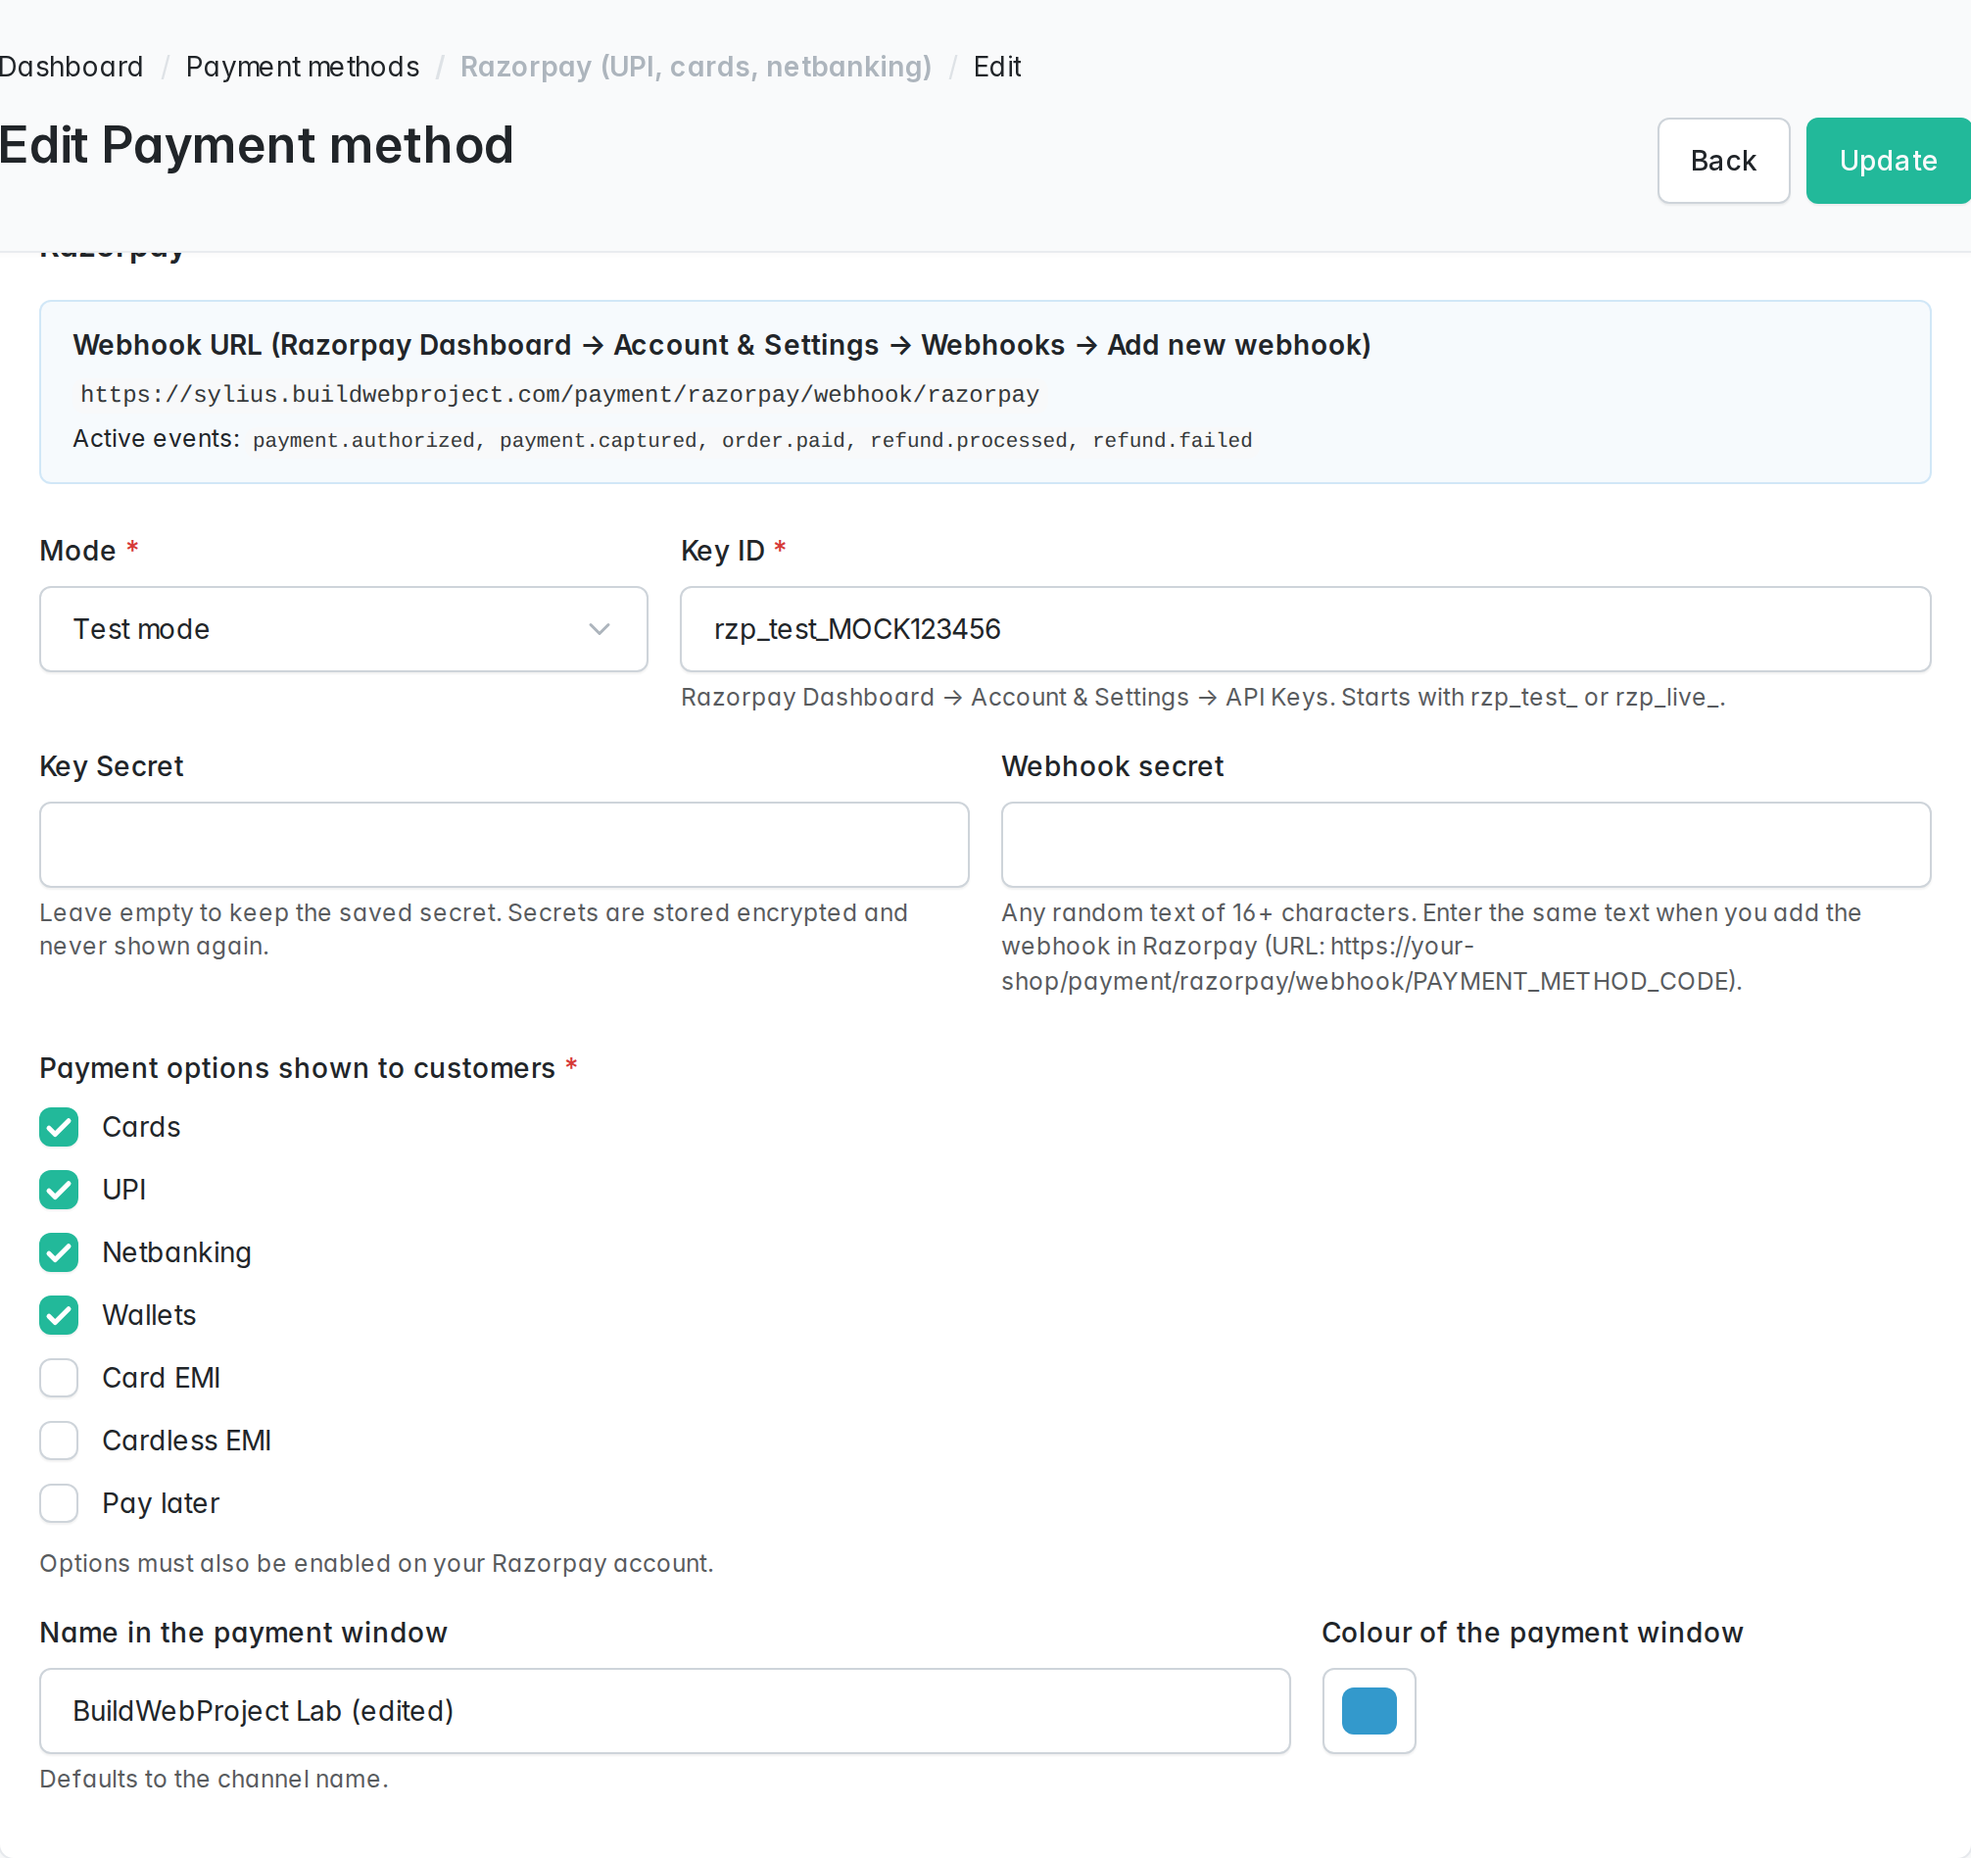
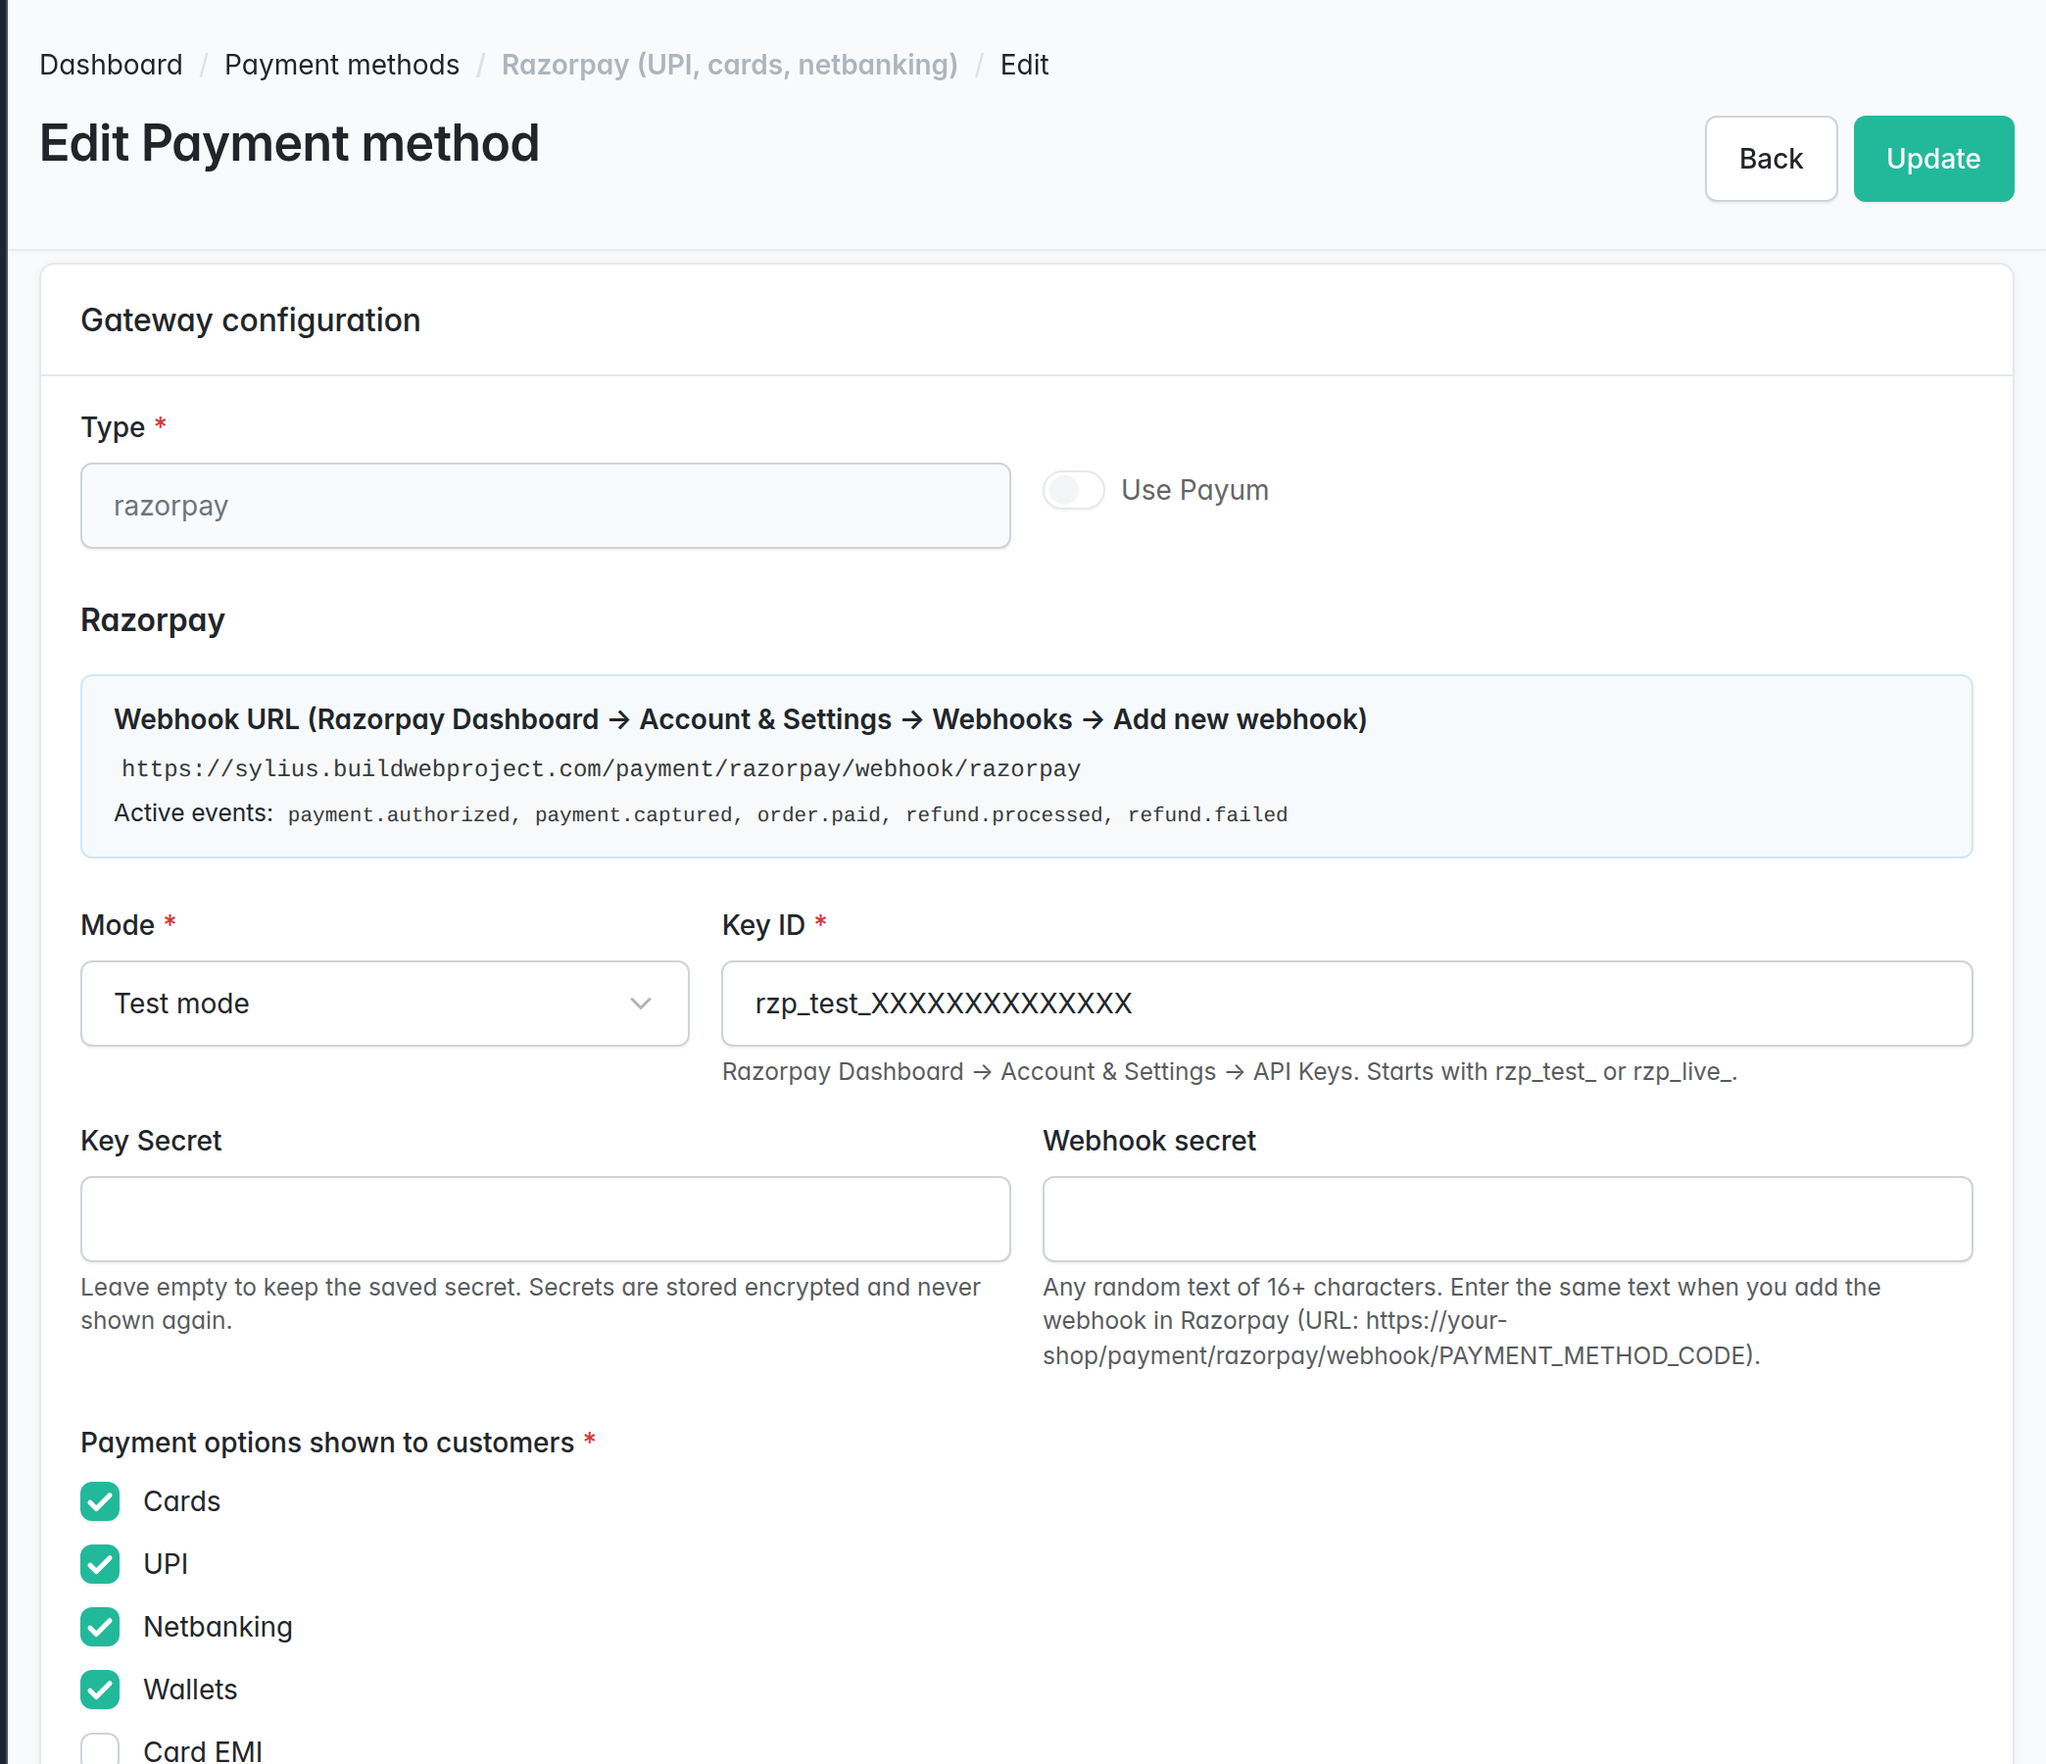
docs: 1.0.0-rc.1 - checked with a real Razorpay test account, new screenshots

diff --git a/README.md b/README.md
@@ -62,10 +62,10 @@
 1. Require the plugin:
 
    ```bash
-   composer require buildwebproject/sylius-razorpay-plugin:^1.0@beta
+   composer require buildwebproject/sylius-razorpay-plugin:^1.0@RC
    ```
 
-   (Drop `@beta` once 1.0.0 is released.)
+   (Drop `@RC` once 1.0.0 is released.)
 
 2. Register the bundle in `config/bundles.php`:
 
@@ -116,6 +116,10 @@
 
 > **Currency**: Razorpay charges in the payment's currency. Indian accounts accept INR by default; other currencies need
 > international payments enabled on your Razorpay account.
+
+> **Phone number**: the customer's billing name, email and phone are prefilled in the Razorpay window. Razorpay only
+> accepts the phone when it looks real (best with the country code, e.g. `+919000090000`); otherwise Razorpay asks the
+> customer for it once. In test mode use `+919000090000`.
 
 ## Configuration
 
@@ -180,6 +184,9 @@ vendor/bin/phpunit
 Unit tests cover signatures, configuration validation and the API client (with a mock HTTP client). Releases are tested
 end-to-end in a Sylius 2.3 shop: admin setup (validation, secrets never rendered, secrets kept on edit), guest checkout,
 thank-you page, tampered signature refused, signed/unsigned webhooks, idempotent replays and refunds through RefundPlugin.
+1.0.0-rc.1 was also checked against a real Razorpay test account: API keys, Razorpay order creation (INR and USD),
+the live Razorpay Checkout window with prefilled customer details, refused tampered or foreign signatures, and signed
+webhooks for unknown payments ignored.
 
 ## Support
 

diff --git a/CHANGELOG.md b/CHANGELOG.md
@@ -1,5 +1,17 @@
 # Changelog
 
+## 1.0.0-rc.1 (2026-11-17)
+
+Release candidate, checked against a real Razorpay test account (no code changes since beta.1).
+
+- Verified with real test keys: API authentication, Razorpay order creation in INR and USD, the live Razorpay
+  Checkout window opening from the Sylius payment page with name, email and phone prefilled.
+- Verified: tampered signatures and payments of another order are refused (HTTP 409); unsigned or badly signed
+  webhooks are refused (HTTP 400); a correctly signed webhook for an unknown payment is accepted and ignored.
+- Verified: Key Secret and webhook secret are never rendered in the admin form.
+- Screenshots now show the real Razorpay test checkout.
+- Docs: install with `^1.0@RC`; note that Razorpay only accepts realistic phone numbers for prefill.
+
 ## 1.0.0-beta.1 (2026-11-16)
 
 First public beta. Tested end-to-end in Sylius 2.3.2 against a Razorpay API mock; the test with a real Razorpay test
